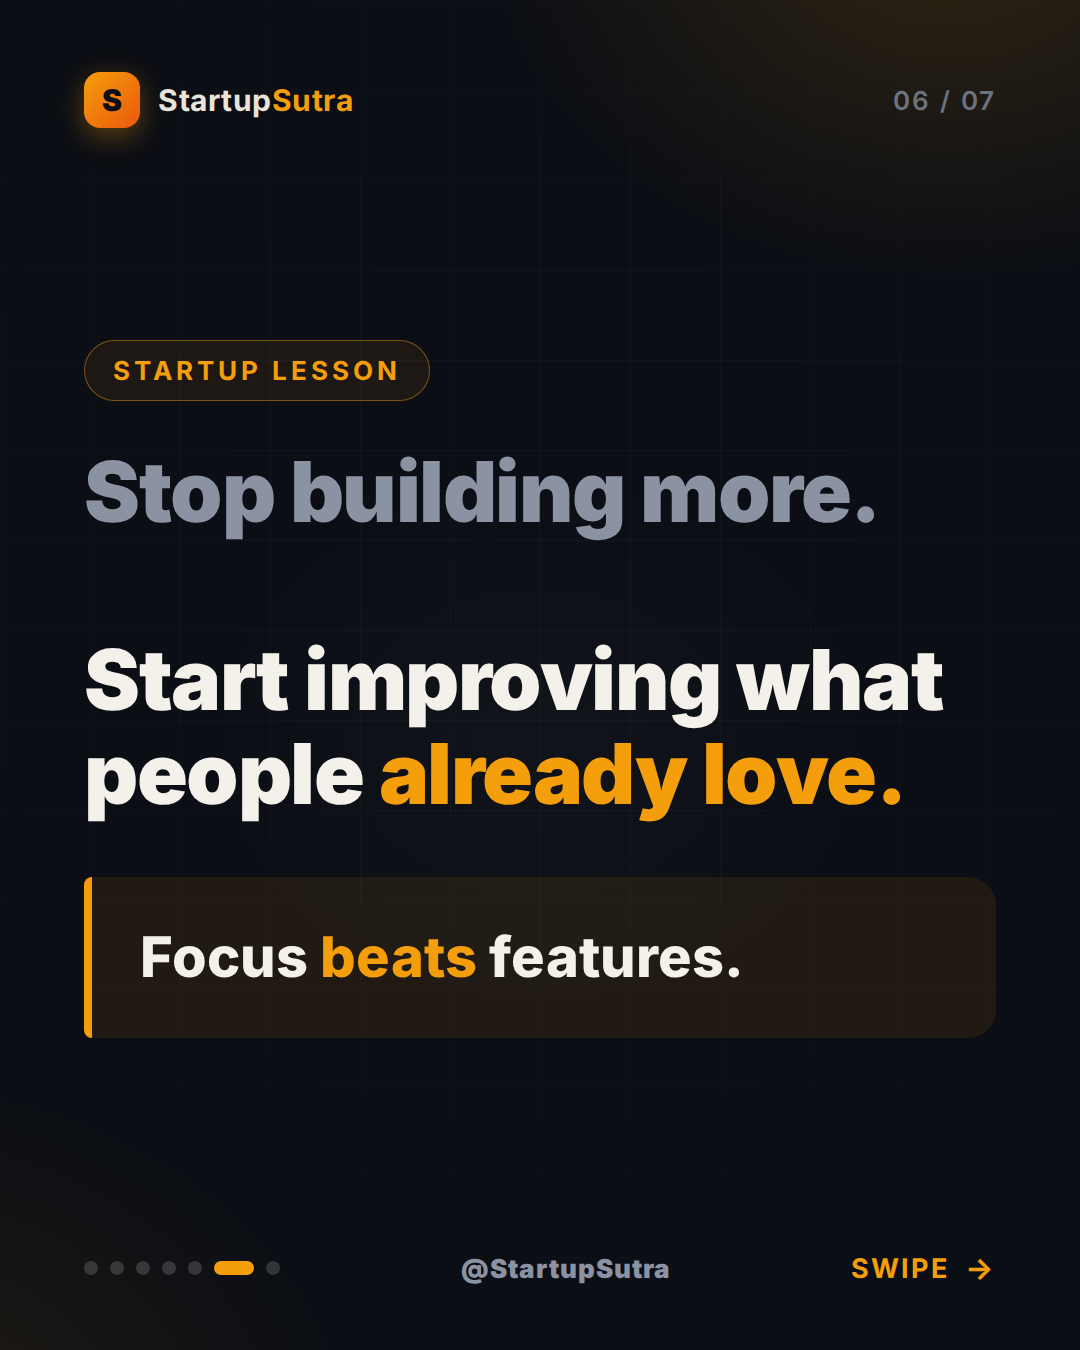
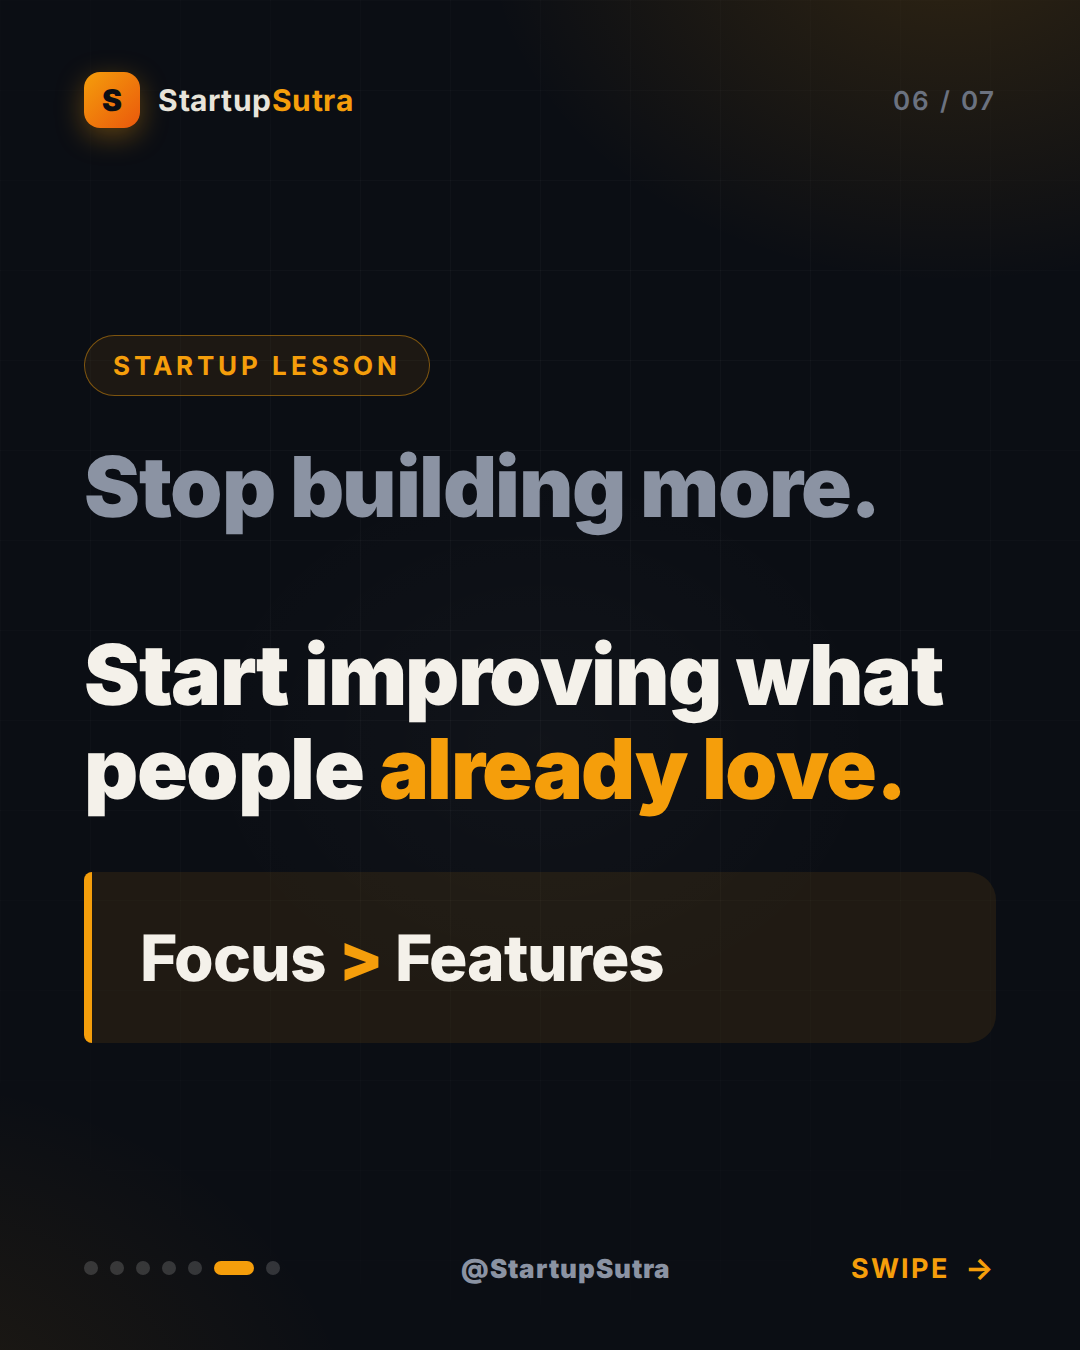
Final polish: subject tag on cover, punchier copy, Focus > Features, new caption, add BRAND.md design-language guide
Claude-Session: https://claude.ai/code/session_01LRcEgKfHXnrMC6oknzTBx2

diff --git a/StartupSutra/2026-07-19-instagram-focus-beats-features/source/carousel.html b/StartupSutra/2026-07-19-instagram-focus-beats-features/source/carousel.html
@@ -112,9 +112,12 @@
       <div class="counter">01 / 07</div>
     </div>
     <div class="body">
-      <div class="kicker"><span class="sq"></span>Case Study #001</div>
+      <div style="display:flex; align-items:center; gap:20px; margin-bottom:44px;">
+        <div class="kicker" style="margin-bottom:0;"><span class="sq"></span>Case Study #001</div>
+        <div class="kicker" style="margin-bottom:0; color:#8b93a3; border-color:rgba(255,255,255,.18); background:rgba(255,255,255,.04);">Instagram</div>
+      </div>
       <h1>Instagram wasn't Kevin Systrom's <span class="accent">first company.</span></h1>
-      <div class="sub">The billion-dollar app <strong>almost never existed.</strong> Here's the story 👇</div>
+      <div class="sub">The billion-dollar app <strong>almost didn't exist.</strong> Here's the story 👇</div>
     </div>
     <div class="bottombar">
       <div class="dots"><i class="on"></i><i></i><i></i><i></i><i></i><i></i><i></i></div>
@@ -181,7 +184,7 @@
         <div class="item dead"><span class="ico">📍</span><span class="txt">Check-ins</span></div>
         <div class="item dead"><span class="ico">🎮</span><span class="txt">Gaming</span></div>
         <div class="item dead"><span class="ico">👥</span><span class="txt">Social networking</span></div>
-        <div class="item win"><span class="ico">📸</span><span class="txt">Photos — the only thing they kept</span></div>
+        <div class="item win"><span class="ico">📸</span><span class="txt">One feature survived: Photos.</span></div>
       </div>
     </div>
     <div class="bottombar">
@@ -205,7 +208,7 @@
         <div class="num" style="font-size:132px;">1 Million</div>
         <div class="lbl" style="font-size:44px; margin-top:2px;">users</div>
         <div class="lbl" style="margin-top:48px; font-size:40px;">in just</div>
-        <div style="font-weight:900; font-size:110px; letter-spacing:-2px; color:#f59e0b; line-height:1.05;">2 months. 🚀</div>
+        <div style="font-weight:900; font-size:128px; letter-spacing:-2.5px; color:#f59e0b; line-height:1.05;">2 months. 🚀</div>
       </div>
     </div>
     <div class="bottombar">
@@ -226,7 +229,7 @@
     <div class="body">
       <div class="kicker">Startup Lesson</div>
       <h1 style="font-size:84px;"><span class="dim">Stop building more.</span><br><br>Start improving what people <span class="accent">already love.</span></h1>
-      <div class="quotecard" style="font-size:56px;">Focus <span style="color:#f59e0b;">beats</span> features.</div>
+      <div class="quotecard" style="font-size:64px; letter-spacing:-1px;">Focus <span style="color:#f59e0b; font-weight:900;">&gt;</span> Features</div>
     </div>
     <div class="bottombar">
       <div class="dots"><i></i><i></i><i></i><i></i><i></i><i class="on"></i><i></i></div>
@@ -245,7 +248,7 @@
     </div>
     <div class="body">
       <div class="kicker">Your Turn</div>
-      <h1 style="font-size:72px;">What's another startup that became successful by <span class="accent">simplifying?</span></h1>
+      <h1 style="font-size:76px;">Which startup became successful by <span class="accent">doing less?</span></h1>
       <div class="list" style="margin-top:56px; gap:22px;">
         <div class="item" style="font-size:38px; padding:24px 34px;"><span class="ico">👇</span><span class="txt">Tell us below</span></div>
         <div class="item" style="font-size:38px; padding:24px 34px;"><span class="ico">❤</span><span class="txt">Save this post</span></div>

diff --git a/StartupSutra/BRAND.md b/StartupSutra/BRAND.md
@@ -1,0 +1,43 @@
+# StartupSutra — Brand & Design Language
+
+**Rule: this design language does not change for at least the first 30 case studies.**
+People follow consistency, not creativity. Anyone seeing a single slide — even a
+screenshot six months from now — should instantly think "That's Startup Sutra."
+
+## Series format
+
+Every post is a numbered case study with a subject tag on the cover:
+
+```
+🟧 CASE STUDY #001   [ INSTAGRAM ]
+🟧 CASE STUDY #002   [ NETFLIX ]
+🟧 CASE STUDY #003   [ AIRBNB ]
+```
+
+The profile becomes a library of case studies. The last slide teases the next
+number ("CASE STUDY #002 SOON").
+
+## Visual system (locked)
+
+- **Canvas:** 1080×1350 (4:5 portrait), 7 slides per carousel
+- **Background:** near-black navy `#0b0e14`, subtle amber ambient glow + faint grid
+- **Accent:** amber `#f59e0b` → orange `#ea580c` (gradient only on the logo mark and big stats)
+- **Text:** warm off-white `#f4f1ea`; dimmed lines `#8b93a3`; secondary `#aab2c0`
+- **Font:** Inter (900 for headlines, 600–700 for support text)
+- **Header:** "S" logo mark + StartupSutra wordmark (left), slide counter `NN / 07` (right)
+- **Footer:** progress dots (left), `@StartupSutra` (center — swap for StartupSutra.co when live), `SWIPE →` (right)
+- **Components:** kicker pill, list items (with win/dead states for contrast slides),
+  orange-left-border quote card, giant gradient stat numbers
+
+## Hard rules
+
+- ❌ No gradients beyond the accent, no illustrations, no stock photos, no AI images
+- ✅ Text-first, clean, high-contrast — the information IS the design
+- ✅ Emojis used sparingly as functional icons (📍 🎮 📸 👥 🚀 👇 ❤ 🔁)
+- ✅ One idea per slide; the surprising number gets the biggest type
+- ✅ Slide 7 always: question + Tell us below / Save / Share + follow card + next-episode tease
+
+## Workflow
+
+Copy the previous post's `source/` folder, edit the text in `carousel.html`,
+run `node render.js`, review, commit. Fonts live alongside the HTML.
